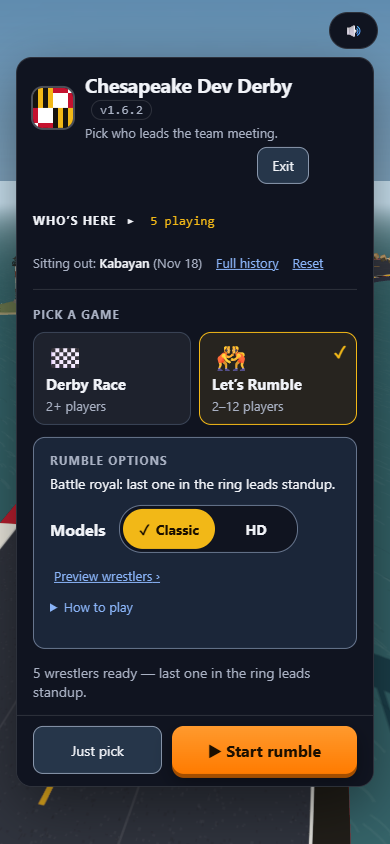
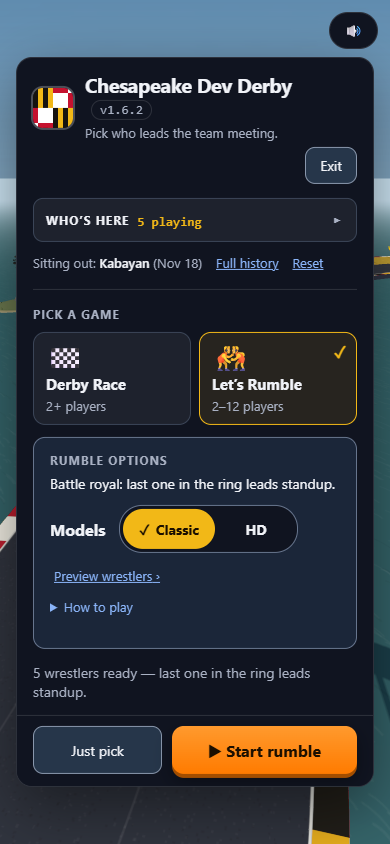
Lobby browser tests: real Enter, How to play, phone row; steady in CI (#120)
- The CI failure: right after a click, the new options panel reads hidden
  at the very start of its 120 ms fade while the old one is still visible,
  so "one panel visible" could pass too early on a slow runner. The six-mode
  test now runs with reduced motion (no fade) and checks the visible panel
  is the selected mode's.
- Enter is pressed from the focused Arena card (refused while it doesn't
  fit, then starting it) and from its slider, with no blur() workaround.
- New: an open How to play closes when another game is chosen and the
  options area shrinks back (fails without the #119 fix).
- New: on a phone, a real tap on the count opens the Who's here row, it
  shows "5 playing · 1 absent", and a tap by the arrow folds it again.
- Screenshots retaken with the #119 fixes; README and CHANGELOG updated.

diff --git a/test/lobby-browser.test.js b/test/lobby-browser.test.js
@@ -67,11 +67,13 @@ function installModes(extra) {
 const NAMES = ['Ada', 'Grace', 'Linus', 'Hedy', 'Barbara', 'Ken'];
 
 /** Opens the lobby with `extra` stand-in modes on a `width` x `height` screen. */
-async function openLobby(t, { extra, names = NAMES, width = 1366, height = 768, mobile = false }) {
+async function openLobby(t, { extra, names = NAMES, width = 1366, height = 768, mobile = false, reducedMotion = false }) {
   const base = await startServer(t, names);
   const send = await openBrowser(t);
   const page = pageHelpers(send);
   await send('Emulation.setDeviceMetricsOverride', { width, height, deviceScaleFactor: 1, mobile });
+  // Without motion, the options' crossfade is instant, so what shows can be read straight after a change.
+  if (reducedMotion) await send('Emulation.setEmulatedMedia', { features: [{ name: 'prefers-reduced-motion', value: 'reduce' }] });
   await send('Page.enable');
   await send('Page.addScriptToEvaluateOnNewDocument', { source: `(${installModes})(${extra})` });
   const load = async (query = '') => {
@@ -83,7 +85,14 @@ async function openLobby(t, { extra, names = NAMES, width = 1366, height = 768, 
   const key = async (key, code, keyCode) => {
     for (const type of ['keyDown', 'keyUp']) await send('Input.dispatchKeyEvent', { type, key, code, windowsVirtualKeyCode: keyCode });
   };
-  return { send, ...page, load, key };
+  /** A real tap (mouse press and release) at the centre of what `selector` finds, or at `dx` px from its left. */
+  const tap = async (selector, dx = null) => {
+    const r = await page.evaluate(`(() => { const r = document.querySelector('${selector}').getBoundingClientRect(); return [r.left, r.top, r.width, r.height]; })()`);
+    const x = dx === null ? r[0] + r[2] / 2 : r[0] + dx;
+    const y = r[1] + r[3] / 2;
+    for (const type of ['mousePressed', 'mouseReleased']) await send('Input.dispatchMouseEvent', { type, x, y, button: 'left', clickCount: 1 });
+  };
+  return { send, ...page, load, key, tap };
 }
 
 /** What the lobby shows for the selected mode. */
@@ -124,11 +133,10 @@ test('a third mode joins the lobby as one more card, with its own options, limit
   assert.equal(lobby.panel, 'Arena options');
   assert.match(lobby.howToPlay, /Knock everyone off the arena/);
 
-  // Six checked don't fit 2–4: said beside a disabled Start, and Enter in the lobby does nothing.
+  // Six checked don't fit 2–4: said beside a disabled Start, and Enter on the card does nothing.
   assert.equal(lobby.start, '▶ Start arena');
   assert.ok(lobby.startDisabled);
   assert.equal(lobby.readiness, 'Arena supports 2–4 players. 6 are checked — uncheck 2. Review team list');
-  await evaluate('document.activeElement.blur()');
   await key('Enter', 'Enter', 13);
   assert.deepEqual(await evaluate('window.derbyTestCalls'), []);
 
@@ -147,8 +155,8 @@ test('a third mode joins the lobby as one more card, with its own options, limit
   await evaluate(`(() => { const s = document.getElementById('opt-arena-rounds'); s.value = 2; s.dispatchEvent(new Event('input')); })()`);
   assert.equal(await evaluate(`document.getElementById('opt-arena-rounds').getAttribute('aria-valuetext')`), '5 rounds');
 
-  // Enter in the lobby starts the selected mode, with its options, through the shared Start.
-  await evaluate('document.activeElement.blur()');
+  // Enter on the selected card starts it, with its options, through the shared Start.
+  await evaluate(`document.querySelector('input[name="mode"][value="arena"]').focus()`);
   await key('Enter', 'Enter', 13);
   lobby = await evaluate(LOBBY);
   assert.equal(lobby.calls.length, 1);
@@ -169,27 +177,55 @@ test('a third mode joins the lobby as one more card, with its own options, limit
   assert.equal(await evaluate(`document.querySelector('input[name="opt-arena-map"]:checked').value`), 'lighthouse');
   assert.equal(await evaluate(`document.getElementById('opt-arena-rounds').value`), '2');
 
+  // Enter on one of its options (the slider) starts it too.
+  await evaluate(`document.getElementById('opt-arena-rounds').focus()`);
+  await key('Enter', 'Enter', 13);
+  await until('window.derbyTestCalls.length === 1 && document.getElementById("lobby").hidden', 10000, 'Arena to start from the slider');
+  await evaluate(`document.getElementById('quit').click()`);
+  await until(`!document.getElementById('lobby').hidden`, 10000, 'the lobby after Quit');
+
   // Back to the race: attendance is shared, and the race's options are still its own.
   await evaluate(`document.querySelector('input[name="mode"][value="race"]').click()`);
   lobby = await evaluate(LOBBY);
   assert.equal(lobby.start, '▶ Start race');
   assert.equal(lobby.count, '4 playing');
   assert.equal(lobby.panel, 'Race options');
+
+  // An open How to play doesn't follow you to another game: the options area shrinks back.
+  const area = `Math.round(document.getElementById('mode-options').getBoundingClientRect().height)`;
+  const closed = await evaluate(area);
+  await evaluate(`document.querySelector('.mode-config[data-mode="race"] .how-to-play').open = true`);
+  assert.ok(await evaluate(area) > closed + 100, 'the race guide is long');
+  await evaluate(`document.querySelector('input[name="mode"][value="rumble"]').click()`);
+  assert.equal(await evaluate(`document.querySelector('.mode-config[data-mode="race"] .how-to-play').open`), false);
+  assert.equal(await evaluate(area), closed, 'the options area is back to its size');
+});
+
+test('on a phone, the whole Who’s here row folds and unfolds the team list, and shows who’s absent', { skip, timeout: 120000 }, async (t) => {
+  const { evaluate, tap } = await openLobby(t, { extra: 0, width: 390, height: 844, mobile: true });
+  const state = () => evaluate(`[document.getElementById('team-toggle').getAttribute('aria-expanded'),
+    getComputedStyle(document.getElementById('team-body')).display, document.getElementById('team-toggle').textContent.replace(/\\s+/g, ' ').trim()]`);
+  assert.deepEqual(await state(), ['false', 'none', 'Who’s here 6 playing'], 'six ready: folded');
+  // A tap on the count, not the label, opens it.
+  await tap('#team-summary');
+  assert.deepEqual((await state()).slice(0, 2), ['true', 'block']);
+  await evaluate(`document.querySelector('#roster input').click()`);
+  assert.equal((await state())[2], 'Who’s here 5 playing · 1 absent');
+  // And a tap at the far end of the row, by the arrow, folds it again.
+  const width = await evaluate(`document.getElementById('team-toggle').getBoundingClientRect().width`);
+  await tap('#team-toggle', width - 10);
+  assert.deepEqual(await state(), ['false', 'none', 'Who’s here 5 playing · 1 absent']);
 });
 
 for (const [width, height, mobile] of [[1366, 768, false], [390, 844, true], [320, 568, true]]) {
   test(`six modes, one with a long name, fit a ${width} x ${height} screen with Start in one place`, { skip, timeout: 120000 }, async (t) => {
     const names = Array.from({ length: 13 }, (_, i) => `Teammate ${i + 1}`);
-    const { evaluate, until } = await openLobby(t, { extra: 4, names, width, height, mobile });
+    const { evaluate } = await openLobby(t, { extra: 4, names, width, height, mobile, reducedMotion: true });
     const ids = await evaluate(`[...document.querySelectorAll('input[name="mode"]')].map((r) => r.value)`);
     assert.deepEqual(ids, ['race', 'rumble', 'arena', 'quiz', 'relay', 'regatta']);
     const starts = new Set();
     for (const id of ids) {
       await evaluate(`document.querySelector('input[name="mode"][value="${id}"]').click()`);
-      // Once the options' 120 ms crossfade has finished (slower on a busy software-drawn page), only the
-      // selected mode's options are visible.
-      await until(`[...document.querySelectorAll('.mode-config')].filter((p) => getComputedStyle(p).visibility === 'visible').length === 1`,
-        5000, `only ${id}'s options to show`);
       const s = await evaluate(`(() => {
         const box = (el) => el.getBoundingClientRect();
         const lobby = document.getElementById('lobby');
@@ -201,16 +237,14 @@ for (const [width, height, mobile] of [[1366, 768, false], [390, 844, true], [32
           pick: [Math.round(pick.width), Math.round(pick.height)],
           oneRow: Math.abs(start.top - pick.top) < 2,
           cards: [...document.querySelectorAll('.mode-card')].map((c) => ({ w: c.offsetWidth, h: c.offsetHeight, cut: c.scrollWidth > c.clientWidth + 1 })),
-          panel: document.querySelector('.mode-config:not(.inactive)').dataset.mode,
-          shownPanels: [...document.querySelectorAll('.mode-config')].filter((p) => getComputedStyle(p).visibility === 'visible').length,
+          shown: [...document.querySelectorAll('.mode-config')].filter((p) => getComputedStyle(p).visibility === 'visible').map((p) => p.dataset.mode),
           label: document.getElementById('start').textContent,
         };
       })()`);
       const at = `${id} at ${width} x ${height}`;
       assert.ok(!s.hscroll, `${at}: no sideways scrolling`);
       assert.ok(s.oneRow, `${at}: Just pick and Start in one row`);
-      assert.equal(s.panel, id, `${at}: its options show`);
-      assert.equal(s.shownPanels, 1, `${at}: only its options show`);
+      assert.deepEqual(s.shown, [id], `${at}: its options show, and no others`);
       assert.equal(s.label, `▶ Start ${id}`);
       for (const card of s.cards) {
         assert.ok(card.w >= 140 && card.h >= 44, `${at}: card ${card.w} x ${card.h} is a big enough target`);

diff --git a/README.md b/README.md
@@ -358,9 +358,13 @@ Uses Node's built-in test runner — no extra packages. Covers:
   - **a third mode** (Arena, 2–4 players, a three-way toggle and a slider, its own How to play): it appears
     as one more card; the arrow keys select it without starting it; six checked are refused in text
     beside a disabled Start and Enter does nothing; **Review team list** goes to the list; once it fits,
-    **Enter** starts it with its options; Quit returns focus to Start; and a reload keeps the mode, its
-    options and attendance;
-  - **six modes, one with a very long name**, at 1366 × 768, 390 × 844 and 320 × 568: no sideways
+    **Enter** on its card, or on one of its options, starts it with its options; Quit returns focus to
+    Start; a reload keeps the mode, its options and attendance; and an open **How to play** closes when
+    another game is chosen, so the options area shrinks back;
+  - **the phone's Who's here row**: a tap anywhere on it, the count included, unfolds the team list, it
+    shows who's absent ("5 playing · 1 absent"), and a tap by the arrow folds it again;
+  - **six modes, one with a very long name**, at 1366 × 768, 390 × 844 and 320 × 568 (with reduced motion,
+    so nothing is caught mid-fade): no sideways
     scrolling, cards and buttons at least 44 px, names wrapped rather than cut off, only the selected
     mode's options showing, and Start in exactly the same place for every mode.
 

diff --git a/CHANGELOG.md b/CHANGELOG.md
@@ -10,8 +10,9 @@ to release.
 ### Added
 - **Lobby browser tests (#117, phase 4):** `test/lobby-browser.test.js` adds a stand-in third game, and
   six games with a very long name, and checks the lobby takes them with no change to its markup or CSS:
-  selection by keyboard, each game's options, player limits in text, Enter and the shared Start, focus,
-  saved settings, and the layout from a laptop down to a 320 px phone. CI's **Browser tests** job runs it.
+  selection by keyboard, each game's options, player limits in text, Enter (from a card or an option) and
+  the shared Start, focus, saved settings, How to play closing on a change of game, the phone's Who's here
+  row, and the layout from a laptop down to a 320 px phone. CI's **Browser tests** job runs it.
 - README: screenshots of the lobby on a laptop and a phone, and **Adding a game**.
 
 ### Fixed
